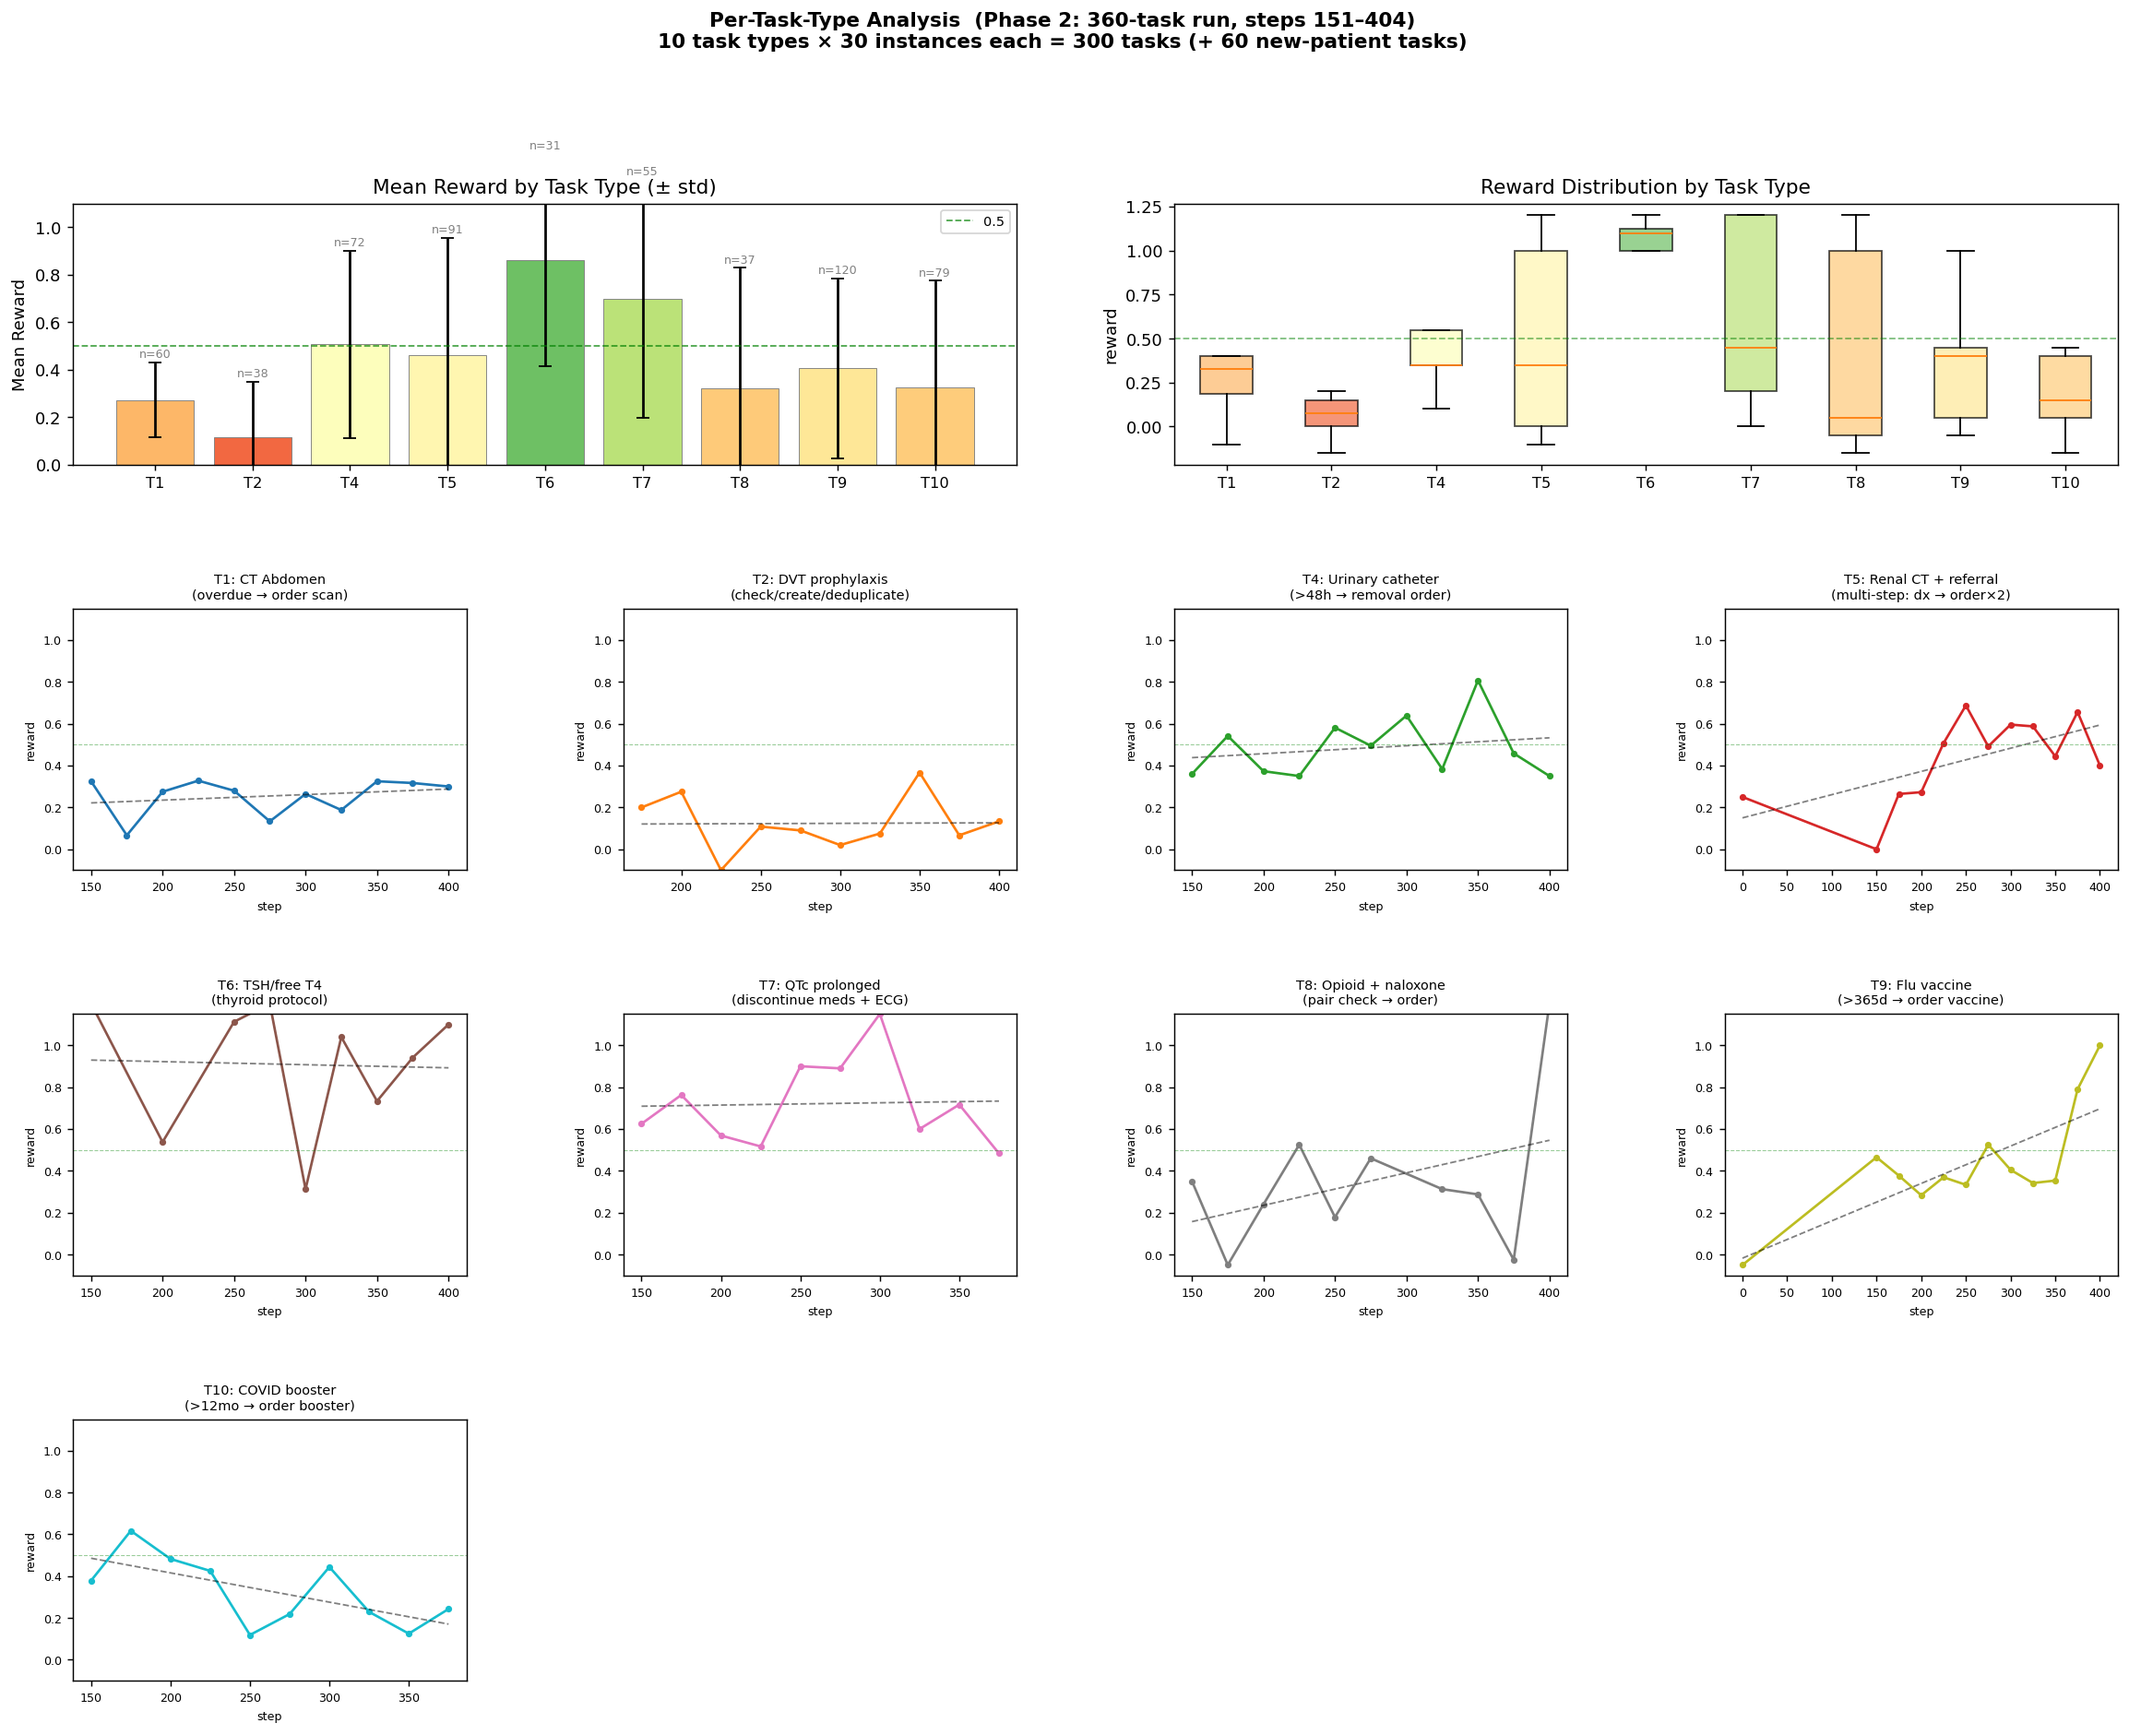
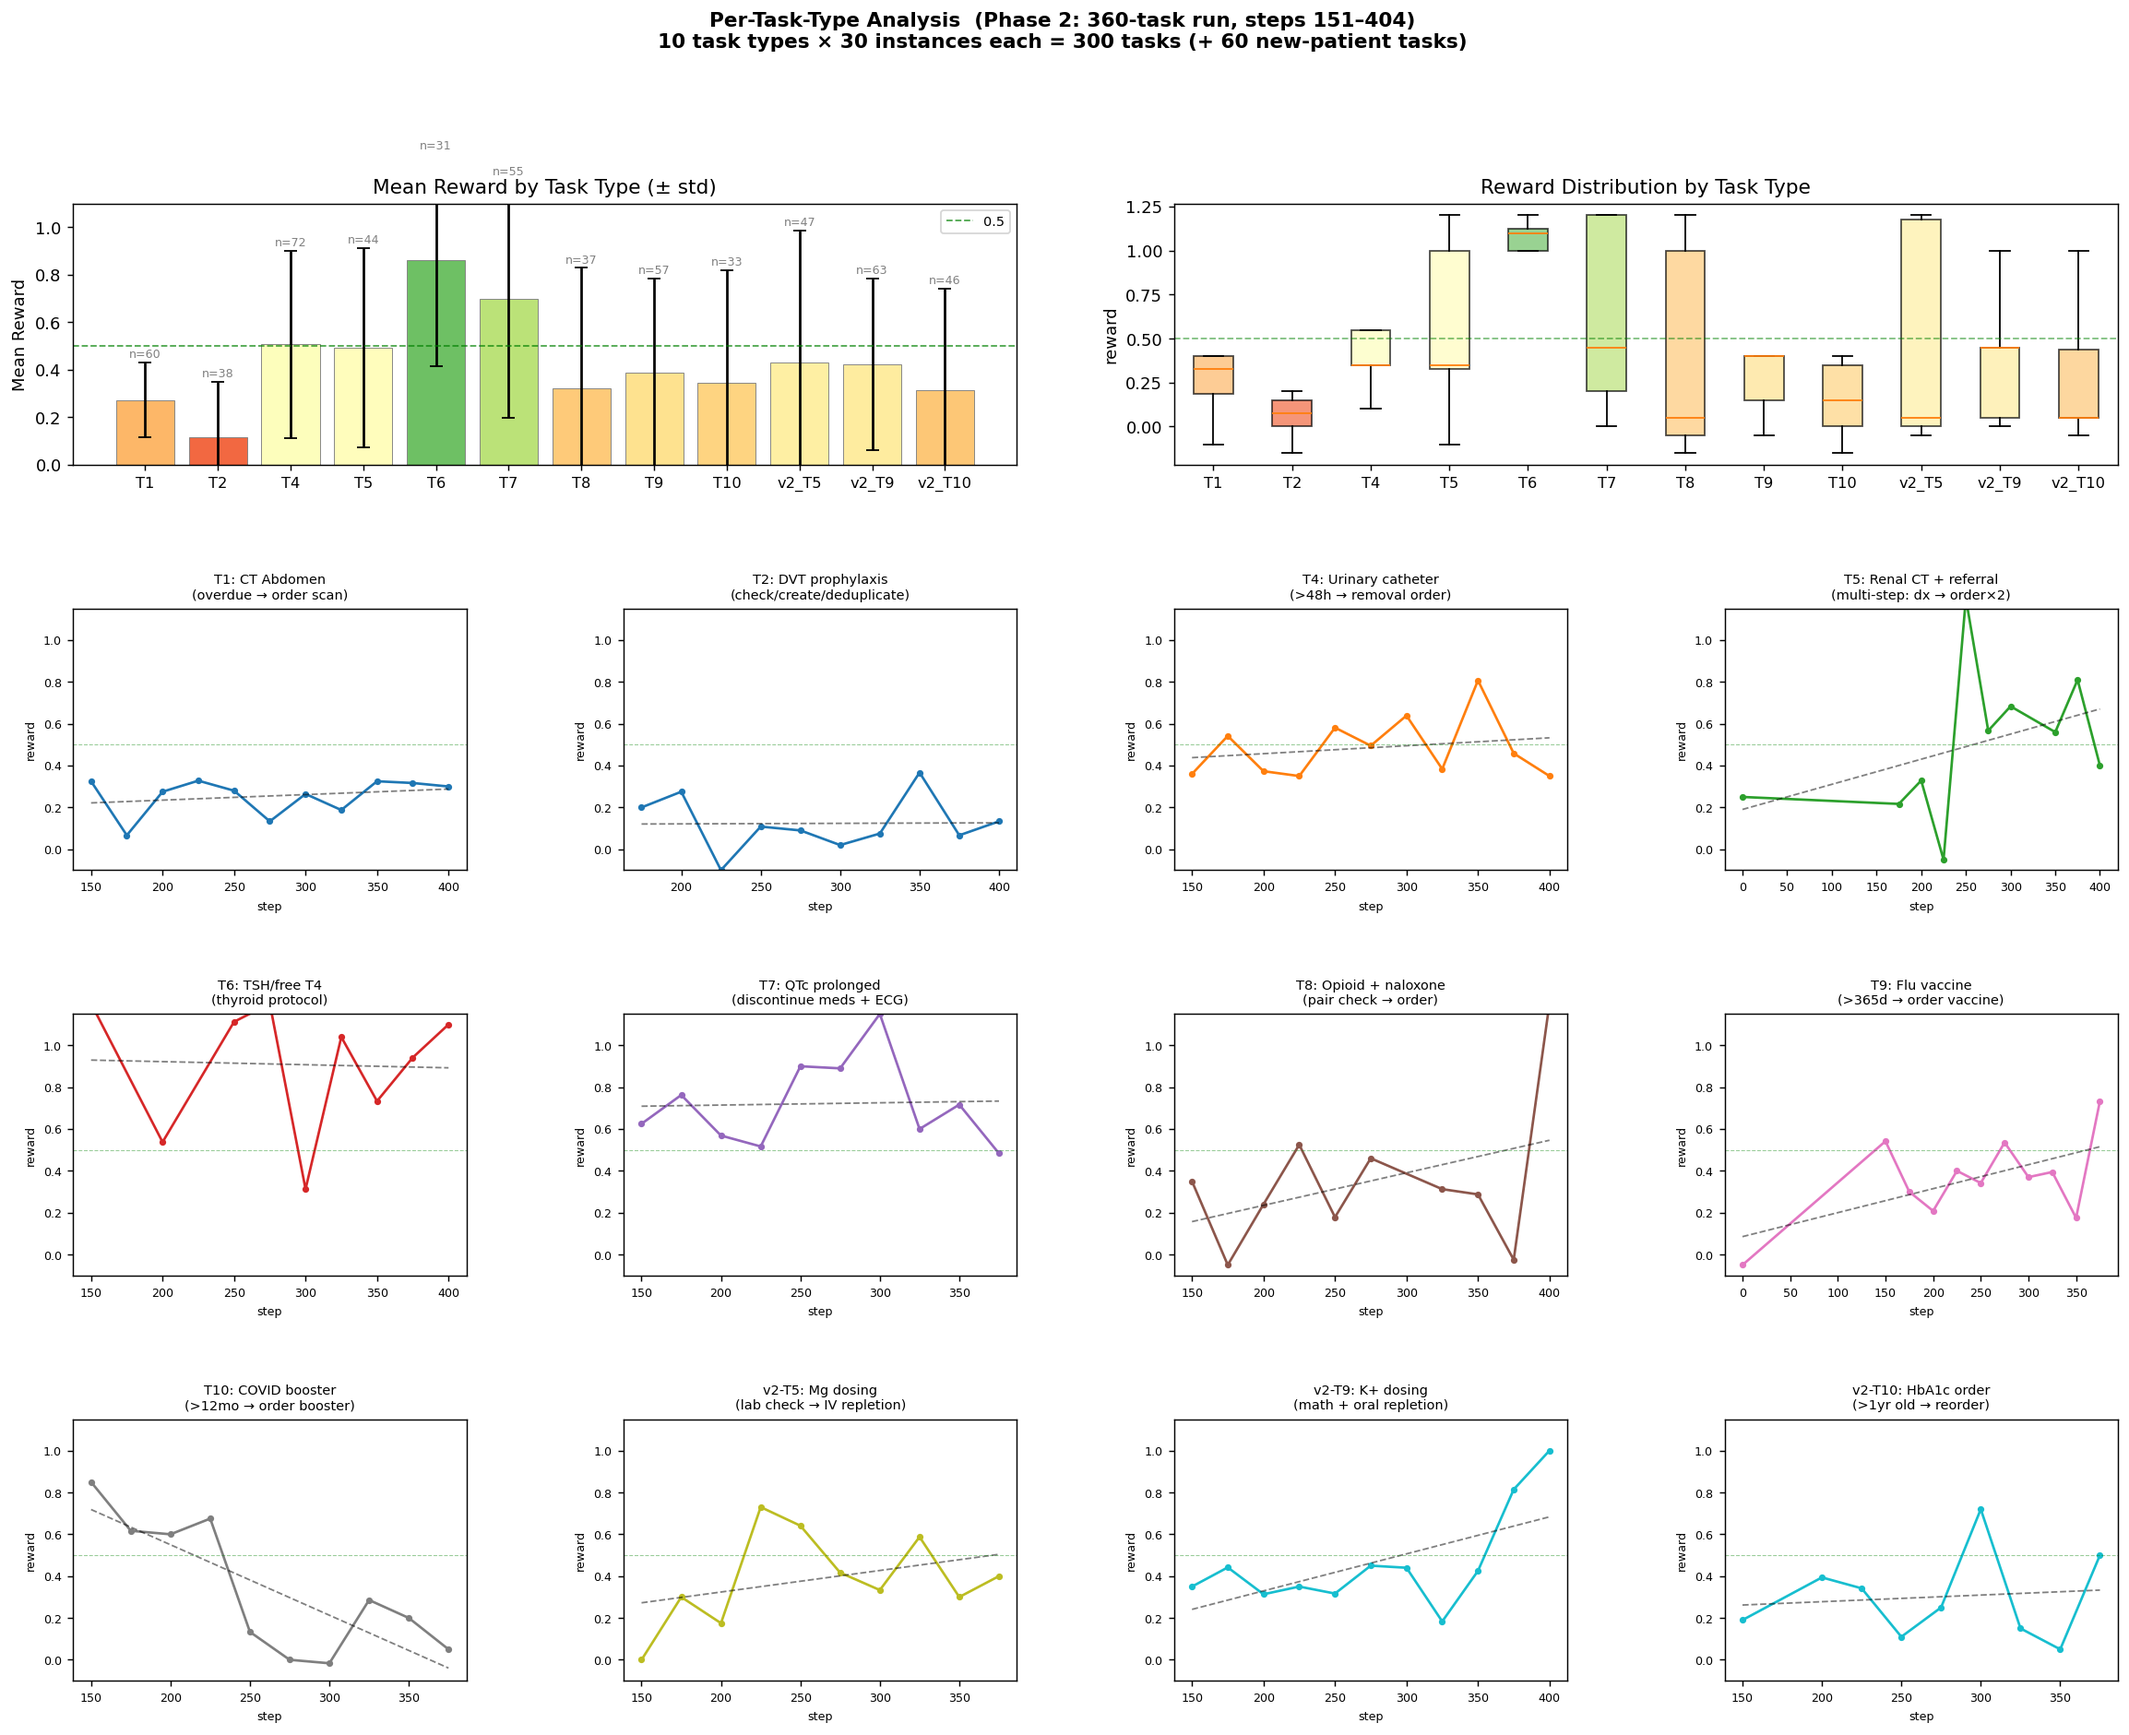
Fix task breakdown: keep v2_task5/9/10 separate, add correct labels
Previously v2_ prefix was stripped, merging v2 tasks into base types
and showing only 9 instead of the correct 12 task types. Also adds
clinical labels for all 12 types.

diff --git a/analyze_full_run.py b/analyze_full_run.py
@@ -120,7 +120,6 @@ def load_episodes():
         path = BASE / lname
         if not path.exists():
             continue
-        current_step = None
         last_pbar = None
         with open(path) as f:
             for line in f:
@@ -130,8 +129,7 @@ def load_episodes():
                 m = _TRACE_RE.search(line)
                 if m:
                     task_id, steps, reward = m.group(1), int(m.group(2)), float(m.group(3))
-                    task_type = re.sub(r"_\d+$", "", task_id)          # e.g. task9_25 → task9
-                    task_type = re.sub(r"^v2_", "", task_type)          # v2_task9 → task9
+                    task_type = re.sub(r"_\d+$", "", task_id)  # e.g. task9_25 → task9, v2_task9_17 → v2_task9
                     episodes.append({
                         "task_id":   task_id,
                         "task_type": task_type,
@@ -280,16 +278,18 @@ def plot_metrics(records, out_path):
 
 # ── Plot 2: per-task-type breakdown ────────────────────────────────────────────
 TASK_LABELS = {
-    "task1":  "T1: CT Abdomen\n(overdue → order scan)",
-    "task2":  "T2: DVT prophylaxis\n(check/create/deduplicate)",
-    "task3":  "T3: Heart rate avg\n(compute 6h & 12h mean)",
-    "task4":  "T4: Urinary catheter\n(>48h → removal order)",
-    "task5":  "T5: Renal CT + referral\n(multi-step: dx → order×2)",
-    "task6":  "T6: TSH/free T4\n(thyroid protocol)",
-    "task7":  "T7: QTc prolonged\n(discontinue meds + ECG)",
-    "task8":  "T8: Opioid + naloxone\n(pair check → order)",
-    "task9":  "T9: Flu vaccine\n(>365d → order vaccine)",
-    "task10": "T10: COVID booster\n(>12mo → order booster)",
+    "task1":     "T1: CT Abdomen\n(overdue → order scan)",
+    "task2":     "T2: DVT prophylaxis\n(check/create/deduplicate)",
+    "task4":     "T4: Urinary catheter\n(>48h → removal order)",
+    "task5":     "T5: Renal CT + referral\n(multi-step: dx → order×2)",
+    "task6":     "T6: TSH/free T4\n(thyroid protocol)",
+    "task7":     "T7: QTc prolonged\n(discontinue meds + ECG)",
+    "task8":     "T8: Opioid + naloxone\n(pair check → order)",
+    "task9":     "T9: Flu vaccine\n(>365d → order vaccine)",
+    "task10":    "T10: COVID booster\n(>12mo → order booster)",
+    "v2_task5":  "v2-T5: Mg dosing\n(lab check → IV repletion)",
+    "v2_task9":  "v2-T9: K+ dosing\n(math + oral repletion)",
+    "v2_task10": "v2-T10: HbA1c order\n(>1yr old → reorder)",
 }
 
 def plot_task_summary(episodes, records, out_path):
@@ -298,7 +298,9 @@ def plot_task_summary(episodes, records, out_path):
     for ep in episodes:
         by_type[ep["task_type"]].append(ep["reward"])
 
-    task_types = sorted(by_type.keys(), key=lambda t: int(re.sub(r"\D","",t) or 0))
+    def _sort_key(t):
+        return (100 if t.startswith("v2_") else 0) + int(re.sub(r"\D", "", t) or 0)
+    task_types = sorted(by_type.keys(), key=_sort_key)
     means  = [np.mean(by_type[t]) for t in task_types]
     stds   = [np.std(by_type[t]) for t in task_types]
     counts = [len(by_type[t]) for t in task_types]
@@ -408,7 +410,9 @@ def print_summary(records, episodes):
 
     print(f"  {'Task':<10} {'N':>5} {'Mean':>7} {'Std':>7} {'Pass(>0.5)':>10}  Description")
     print(f"  {'-'*8:<10} {'-'*4:>5} {'-'*6:>7} {'-'*6:>7} {'-'*9:>10}  -----------")
-    task_types = sorted(by_type.keys(), key=lambda t: int(re.sub(r"\D","",t) or 0))
+    def _sort_key(t):
+        return (100 if t.startswith("v2_") else 0) + int(re.sub(r"\D", "", t) or 0)
+    task_types = sorted(by_type.keys(), key=_sort_key)
     for tt in task_types:
         vals = by_type[tt]
         ppass = sum(1 for v in vals if v > 0.5) / len(vals)
